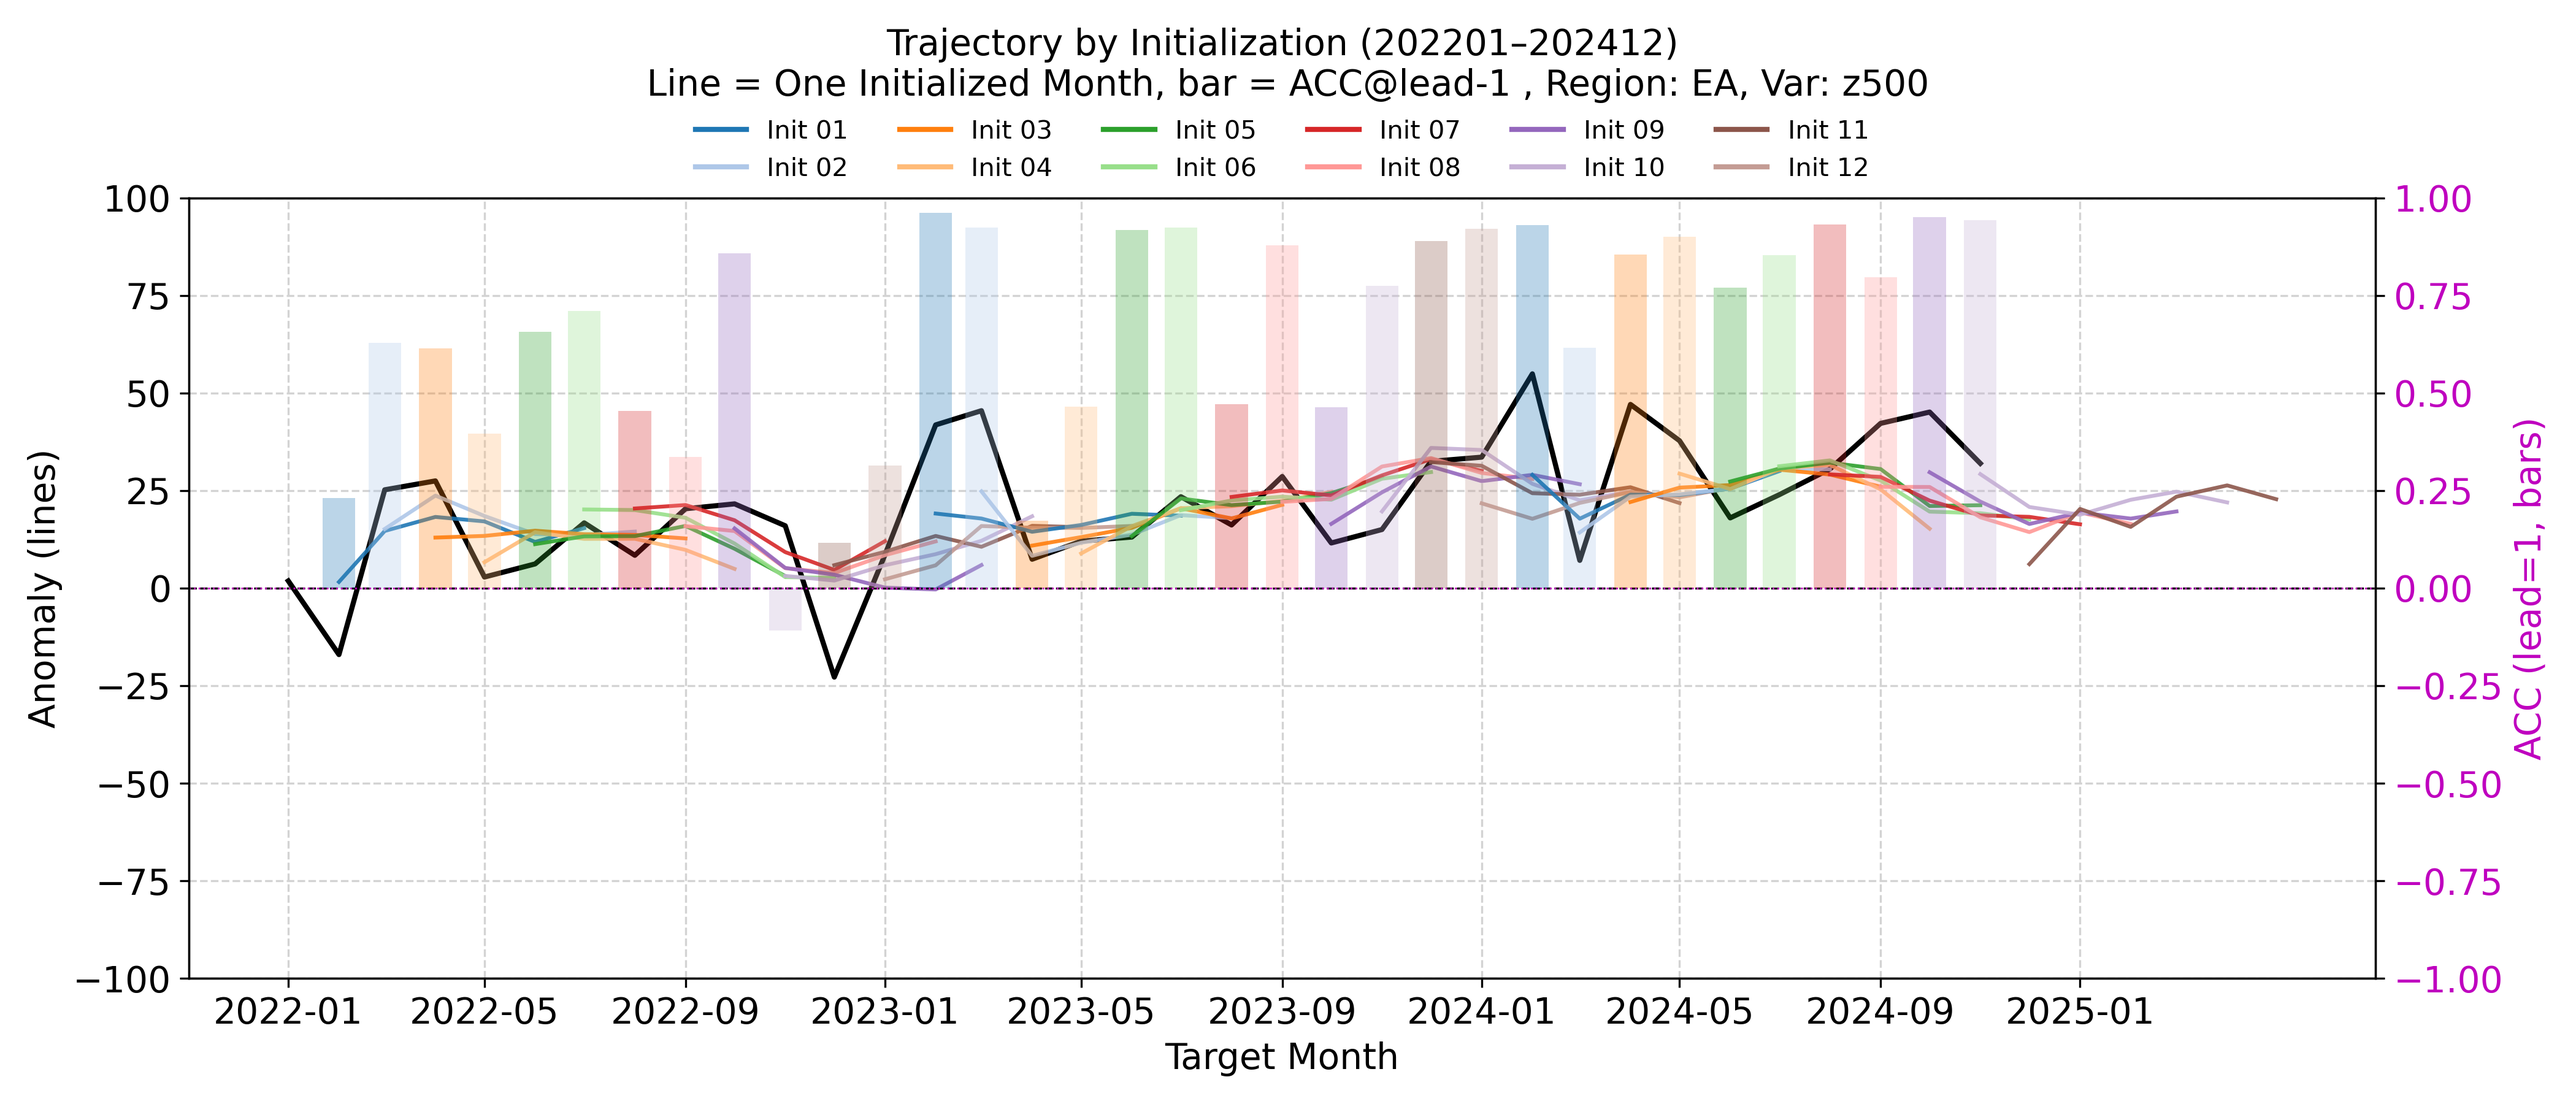
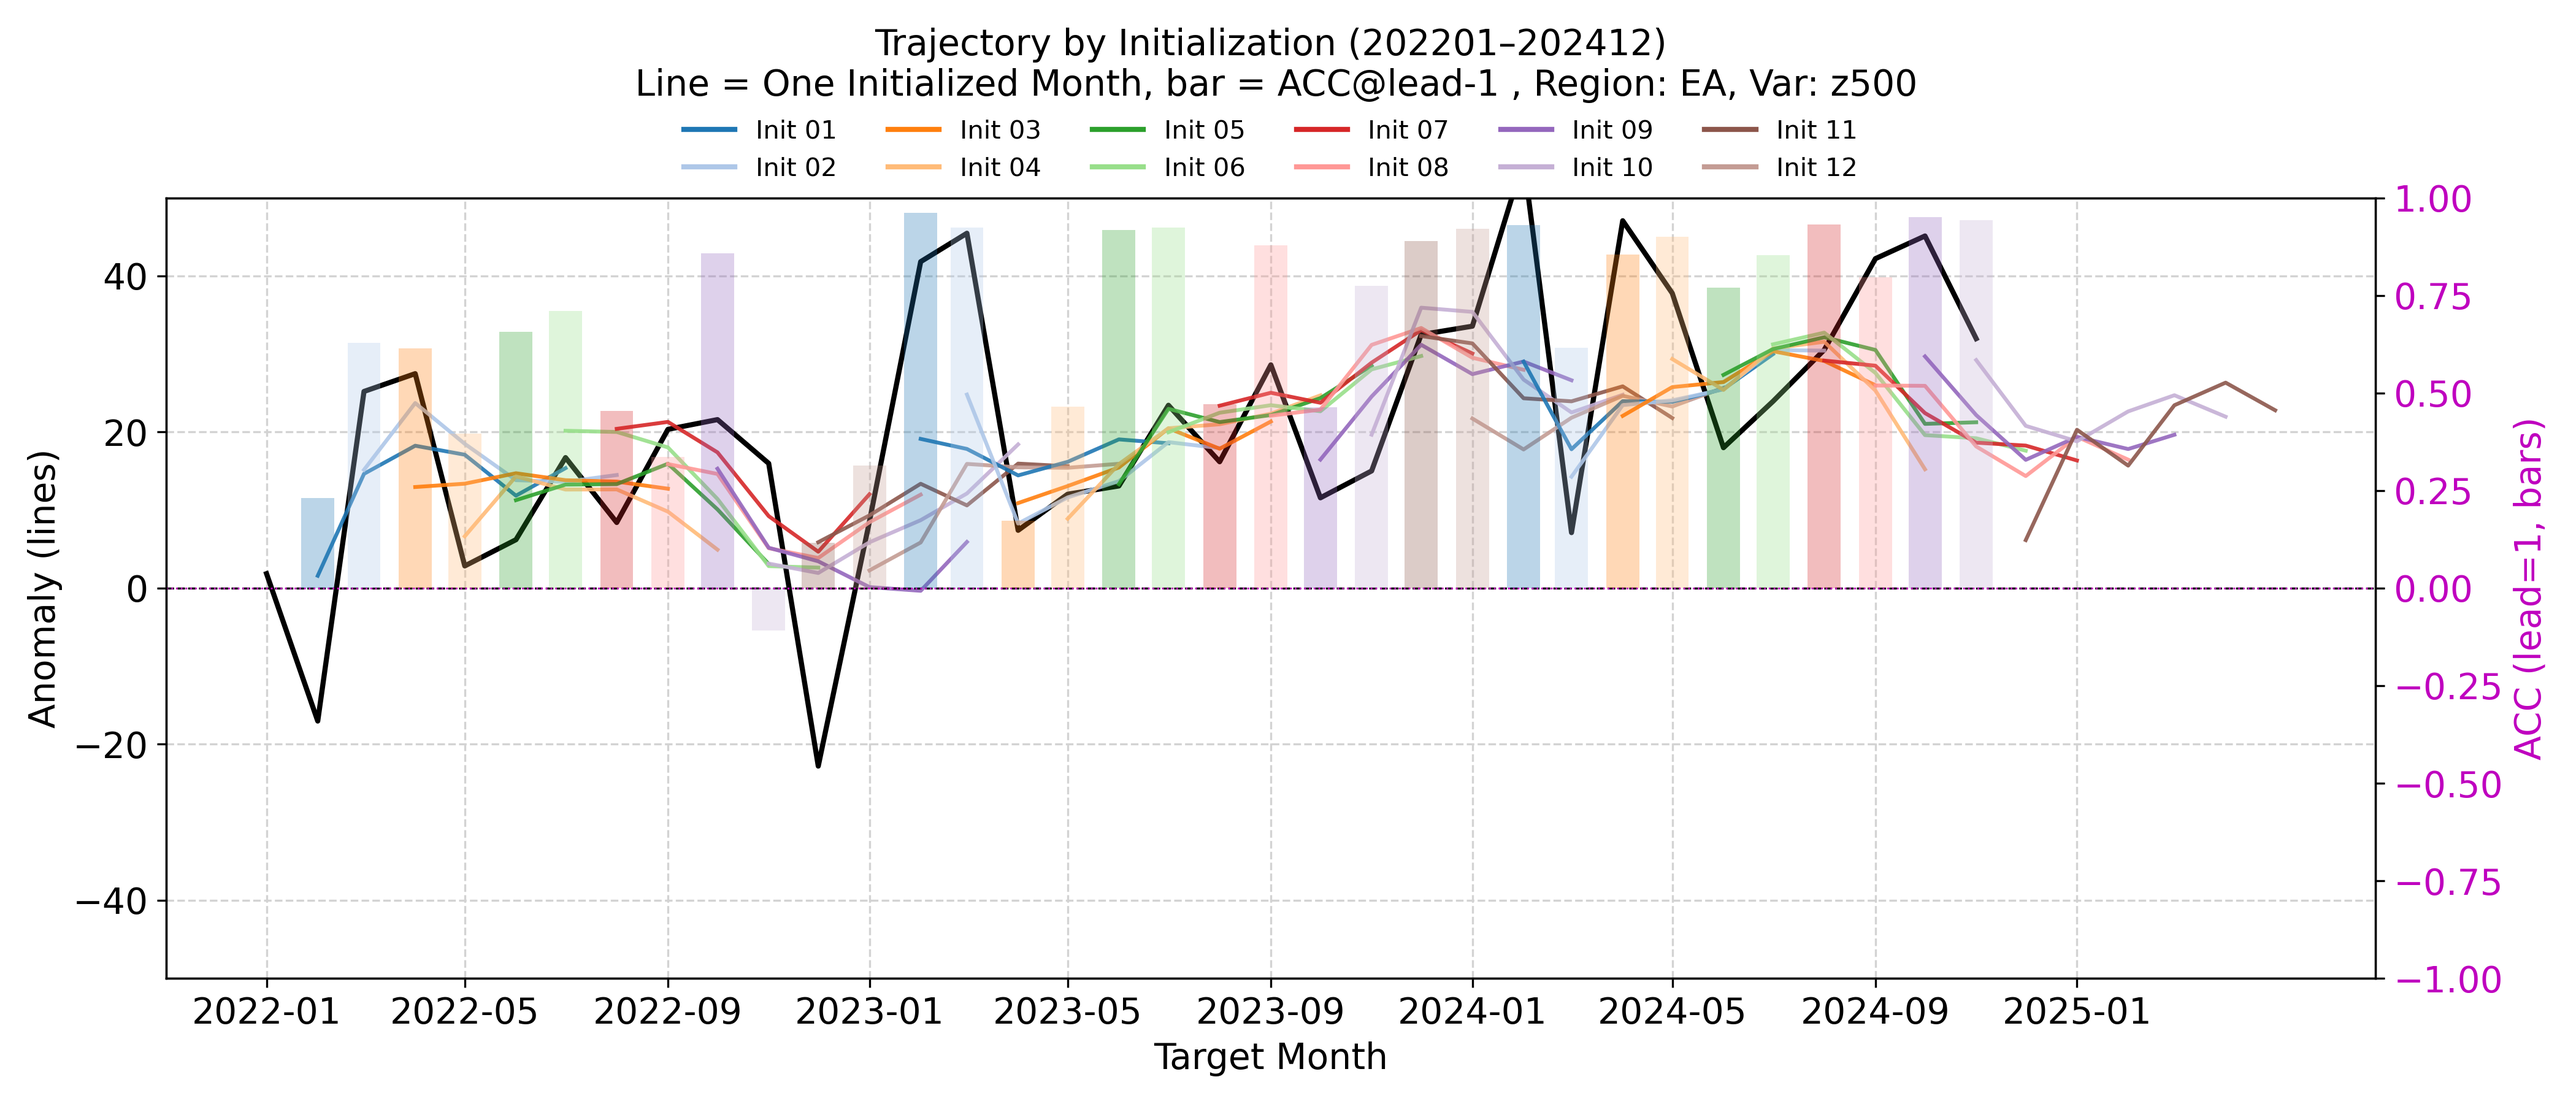
z500 EA plot upload

diff --git a/fcstverif/config.py b/fcstverif/config.py
@@ -47,16 +47,16 @@ REGION_OVERRIDE_BY_VAR = {
 # --- plot list ---
 enabled_plots = [
     # -- detailed plots
-    "init_line",       # Timeseries of deterministic skill score by lead, every initialized month
-    "target_month",    # Timeseries of deterministic skill score by lead, every target month
-    "target_pattern",  # Spatial distribution comparison btw obs and fcst anomaly, every target month
-    "rpss_map",        # (Probabilistic skill score) RPSS map, every initialized month
-    "roc_curve",        # (Probabilistic skill score) ROC curve with AUC, every initialized month
+    #"init_line",       # Timeseries of deterministic skill score by lead, every initialized month
+    #"target_month",    # Timeseries of deterministic skill score by lead, every target month
+    #"target_pattern",  # Spatial distribution comparison btw obs and fcst anomaly, every target month
+    #"rpss_map",        # (Probabilistic skill score) RPSS map, every initialized month
+    #"roc_curve",        # (Probabilistic skill score) ROC curve with AUC, every initialized month
     # -- overview plots
     "target_line",      # Timeseries of all forecast initialization (ACC)
     "traj_line",        # Trajectory lines of all forecast initialization
-    "init_heatmap",    # Deterministic skill score heatmap
-    "cate_heatmap",    # (only t2m, prcp) Deterministic Multi-category score heat map, every year
+    #"init_heatmap",    # Deterministic skill score heatmap
+    #"cate_heatmap",    # (only t2m, prcp) Deterministic Multi-category score heat map, every year
     # -- analytics plots
     #"skill_relation",   # Skill relation plot
     #"skill_relation_v2",

diff --git a/fcstverif/src/plotting/plotDetermSkillScore.py b/fcstverif/src/plotting/plotDetermSkillScore.py
@@ -335,7 +335,7 @@ def plot_trajectory_w_acc_by_initialized_line(
         "t2m":[-1.5, 2.5],
         "prcp":[-1, 1.5],
         "sst":[-0.5,2],
-        "z500": [-100.0, 100.0],
+        "z500": [-50.0, 50.0],
     }
 }
     
